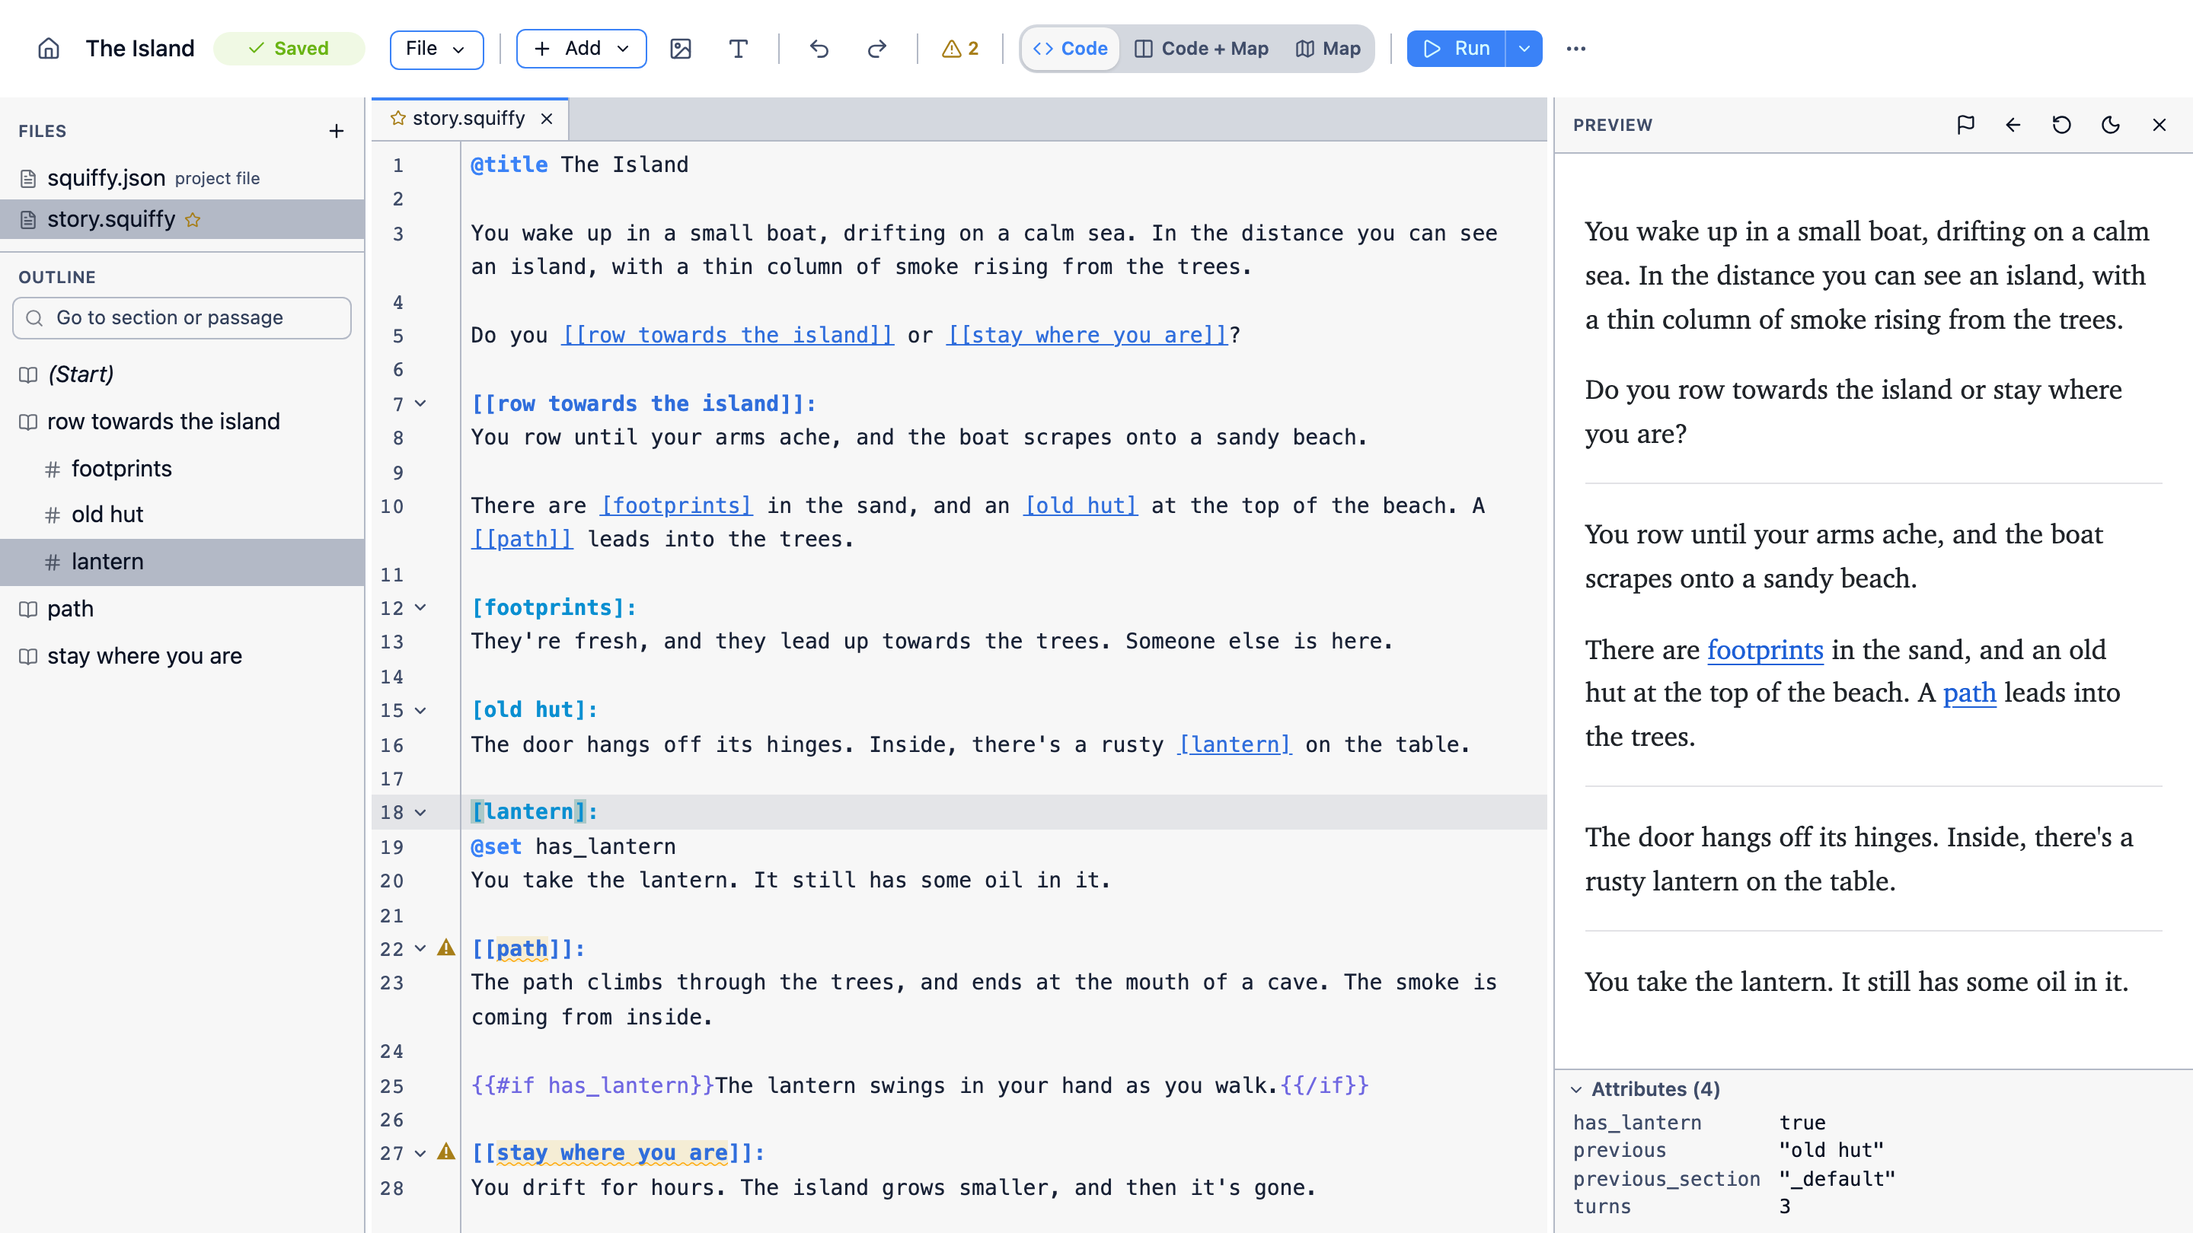
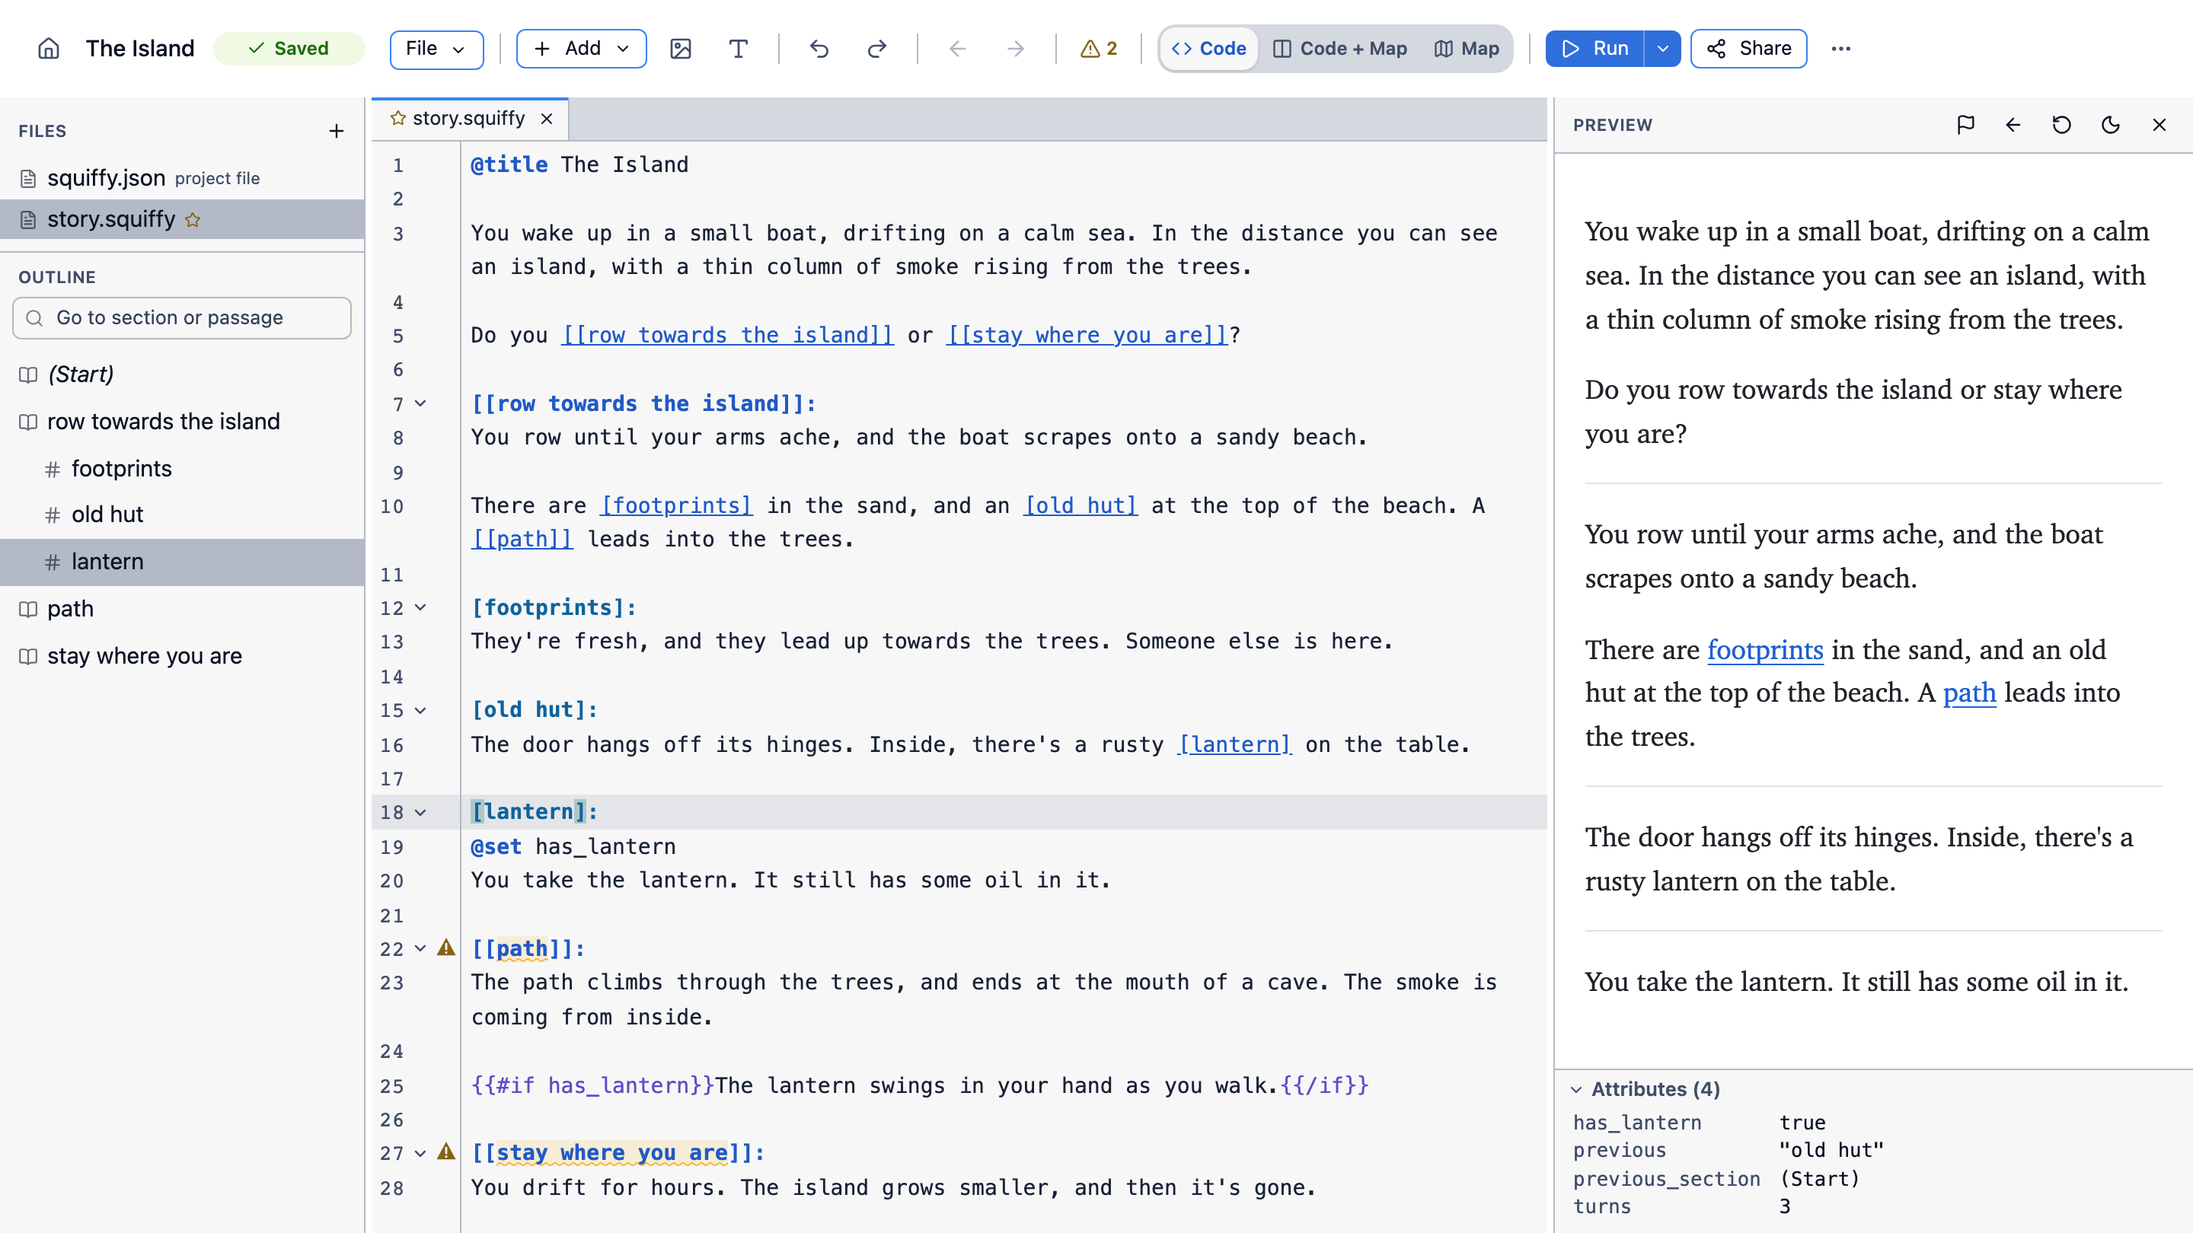
feat(editor): a Share button, and Share or publish opens on A link (#719)
A newcomer looking for "Share" nearly missed File > Publish…, and the dialog
opened on textadventures.co.uk, which they assumed needed an account.

- A Share button beside Run, as well as File > Share or publish…
- The dialog is "Share or publish", lists A link first and opens on it for a
  story not published from this browser; its button says "Make the link"
- The link page says squiffystories.com is Squiffy's own site for stories
- The desktop app's File menu gets Share or Publish…
- Docs, tutorial and screenshots updated

The screenshot harness's Play in a new tab was broken since #653: it waited
for a blob: tab, and the real play page only takes stories from the real
editors. It now serves squiffystories.com from the local player dev server.

diff --git a/app/src/components/PublishModal.svelte b/app/src/components/PublishModal.svelte
@@ -1,5 +1,5 @@
 <script lang="ts">
-    // Publish: every way of getting a story out to players, with what each is for. Three of them
+    // Share or publish (#719): every way of getting a story out to players, with what each is for. Three of them
     // save files for the author to put somewhere. One makes a link with the whole story in it, for
     // a small story (#lib/share-link.ts). The other sends the story to textadventures.co.uk:
     // the editor has no login there, so it uploads the published story and then sends the author to
@@ -42,8 +42,9 @@
     const POLL_INTERVAL = 3000;
 
     const options: { value: PublishTarget; title: string; detail: string }[] = [
+        // A link first, as it's what someone sharing a story for the first time wants (#719)
+        { value: "link", title: "A link", detail: "The whole story in a web address, to send to anyone, with no account and nothing to upload. For a small story: its text, and a few small images." },
         { value: "online", title: "textadventures.co.uk", detail: "Put your story online for free, where players can find it. Publishing again updates it." },
-        { value: "link", title: "A link", detail: "The whole story in a web address, with nothing to upload. For a small story: its text, and a few small images." },
         { value: "zip", title: "Zip for a website", detail: "HTML, JavaScript and your story's files, to upload to itch.io or your own site." },
         { value: "html", title: "One HTML file", detail: "Everything in a single page, for sharing, or for sites that take one file." },
         { value: "js", title: "JavaScript only", detail: "Just story.js, for embedding the story in a page of your own." },
@@ -191,7 +192,7 @@
         onsubmit={e => { e.preventDefault(); if (stage.name === "choose") void publish(); }}
     >
         <h2 id="publish-title" class="text-base font-semibold">
-            {stage.name === "choose" || stage.name === "saving" ? "Publish" : stage.name === "link" ? "Share a link" : "Publish to textadventures.co.uk"}
+            {stage.name === "choose" || stage.name === "saving" ? "Share or publish" : stage.name === "link" ? "Share a link" : "Publish to textadventures.co.uk"}
         </h2>
 
         {#if stage.name === "choose" || stage.name === "saving"}
@@ -247,7 +248,10 @@
         {:else if stage.name === "link"}
             {@const length = linkUrl.length}
             <div class="publish-link flex flex-col gap-3 text-sm">
-                <p>This link is your story. Anyone who opens it can play it, and nothing has been uploaded.</p>
+                <p>
+                    This link is your story. Anyone who opens it can play it on squiffystories.com, Squiffy's own site
+                    for playing stories, and nothing has been uploaded.
+                </p>
                 <div class="flex gap-2">
                     <input
                         id="publish-link"
@@ -364,7 +368,7 @@
             </button>
             {#if stage.name === "choose" || stage.name === "saving"}
                 <button type="submit" class="btn btn-sm preset-filled-primary-500" disabled={busy}>
-                    {stage.name === "saving" ? "Publishing…" : "Publish"}
+                    {#if target === "link"}{stage.name === "saving" ? "Making the link…" : "Make the link"}{:else}{stage.name === "saving" ? "Publishing…" : "Publish"}{/if}
                 </button>
             {/if}
         </div>

diff --git a/app/src/components/Toolbar.svelte b/app/src/components/Toolbar.svelte
@@ -1,8 +1,8 @@
 <script lang="ts">
     // The editor's toolbar, laid out like Quest Viva's: home, the story's name and save state on
     // the left; on the right, in groups, as a menu bar would be: File, adding to the story (Add,
-    // images), Undo and Redo, Back and Forward, problems, what's shown (the script, the map or both), then Run and
-    // the overflow menu.
+    // images), Undo and Redo, Back and Forward, problems, what's shown (the script, the map or both), then Run,
+    // Share (#719) and the overflow menu.
     // Menus open from their button's left edge, as a menu bar's do, unless that's off the screen.
     import { AppBar } from "@skeletonlabs/skeleton-svelte";
     import { goto } from "$app/navigation";
@@ -64,7 +64,7 @@
     import Bug from "@lucide/svelte/icons/bug";
     import DiscordIcon from "#components/DiscordIcon.svelte";
     import CircleX from "@lucide/svelte/icons/circle-x";
-    import CloudUpload from "@lucide/svelte/icons/cloud-upload";
+    import Share2 from "@lucide/svelte/icons/share-2";
     import CircleCheck from "@lucide/svelte/icons/circle-check";
     import type { ProblemCounts } from "#lib/problems.js";
 
@@ -92,7 +92,7 @@
         onfonts?: () => void;
         // Downloads the whole project as a zip, which Open file can read back
         ondownloadproject?: () => void;
-        // Opens the Publish dialog
+        // Opens the Share or publish dialog
         onpublish?: () => void;
         // Undo, redo, find, fold all and unfold all, in the editor
         oncommand?: (command: EditorCommand) => void;
@@ -181,7 +181,7 @@
         ...(reveal ? [{ label: reveal.label, action: () => reveal.show(""), icon: FolderOpen }] : []),
         { label: "Download project (.zip)", action: () => ondownloadproject?.(), icon: FolderDown },
         { label: `Download ${p?.activePath ?? ""}`, action: () => { if (p?.activePath) void downloadFile(p.activePath); }, icon: Download, disabled: !p?.activePath },
-        { label: "Publish…", action: () => onpublish?.(), icon: CloudUpload, divider: true },
+        { label: "Share or publish…", action: () => onpublish?.(), icon: Share2, divider: true },
     ]);
 
     // Add: a section or passage, or a snippet, as the 6.x editor's Add and Snippets menus
@@ -397,6 +397,14 @@
                         </div>
                     {/snippet}
                 </DropdownMenu>
+                <!-- Share on the toolbar, where people look for it, as well as in File (#719) -->
+                <button
+                    type="button"
+                    class="btn btn-xs preset-outlined-primary-500"
+                    onclick={onpublish}
+                    title="Share or publish your story"
+                    aria-label="Share"
+                ><Share2 size={14} /> <span class="hidden md:inline">Share</span></button>
                 <DropdownMenu items={overflowItems} align="left">
                     {#snippet trigger(toggle, open)}
                         <button type="button" class="toolbar-icon-btn" onclick={toggle} title="More" aria-label="More" aria-haspopup="menu" aria-expanded={open}><Ellipsis size={16} /></button>

diff --git a/e2e/screenshots/lib.ts b/e2e/screenshots/lib.ts
@@ -10,6 +10,10 @@ import { fileURLToPath } from "node:url";
 const here = dirname(fileURLToPath(import.meta.url));
 export const repoRoot = resolve(here, "../..");
 export const outDir = join(repoRoot, "site/src/assets/screenshots");
+// The player the shots' editor makes links to (its VITE_PLAYER_URL), and its dev server, which
+// plays them (both in playwright.screenshots.config.ts)
+const PLAYER_URL = "https://squiffystories.com";
+const LOCAL_PLAYER_URL = "http://localhost:5181";
 
 type Rect = { x: number; y: number; width: number; height: number };
 
@@ -38,6 +42,14 @@ export const test = base.extend({
         });
         // The home page's "Made with Squiffy" comes from textadventures.co.uk, and changes
         await context.route("https://textadventures.co.uk/**", route => route.abort());
+        // The player, from its dev server in place of squiffystories.com: Play in a new tab sends
+        // the story to its play page, which only takes one from the real editors, or (in
+        // development) from one on this machine, as the shots' editor is (#644). Its links still
+        // say squiffystories.com.
+        await context.route(`${PLAYER_URL}/**`, async route => {
+            const url = new URL(route.request().url());
+            await route.fulfill({ response: await route.fetch({ url: `${LOCAL_PLAYER_URL}${url.pathname}${url.search}` }) });
+        });
         await use(context);
     },
 });
@@ -126,7 +138,7 @@ export async function playInNewTab(page: Page): Promise<Page> {
         page.getByRole("button", { name: "Run options" }).click().then(() =>
             page.getByRole("menuitem", { name: "Play in a new tab" }).click()),
     ]);
-    await tab.waitForURL(/^blob:/);
+    await tab.waitForURL(`${PLAYER_URL}/v7/play`);
     await tab.setViewportSize(page.viewportSize()!);
     await expect(tab.locator("a.squiffy-link").first()).toBeVisible();
     return tab;

diff --git a/e2e/screenshots/features.capture.ts b/e2e/screenshots/features.capture.ts
@@ -55,16 +55,16 @@ test("writing a section beside the full-screen map", async ({ page }) => {
 test("sharing a story as a link", async ({ page }) => {
     await page.context().grantPermissions(["clipboard-read", "clipboard-write"]);
     await openStory(page, "e2e/screenshots/stories/cave");
-    await menu(page, "File", "Publish…");
+    await menu(page, "File", "Share or publish…");
     await dialog(page).getByRole("radio", { name: /A link/ }).check();
-    await dialog(page).getByRole("button", { name: "Publish", exact: true }).click();
+    await dialog(page).getByRole("button", { name: "Make the link", exact: true }).click();
     await expect(dialog(page).getByText("Share a link")).toBeVisible();
     await capture(page, "publish-link", { clip: await around(dialog(page)) });
 });
 
 test("Story details", async ({ page }) => {
     await openStory(page, "examples/gameshow");
-    await menu(page, "File", "Publish…");
+    await menu(page, "File", "Share or publish…");
     await dialog(page).getByRole("button", { name: "Edit details" }).or(dialog(page).getByRole("link", { name: "Edit details" })).click();
     await expect(dialog(page).getByText("Story details").first()).toBeVisible();
     await capture(page, "story-details", { clip: await around(dialog(page)) });

diff --git a/e2e/screenshots/editor-tools.capture.ts b/e2e/screenshots/editor-tools.capture.ts
@@ -1,6 +1,6 @@
 // The editor's home page, problems, Start at menu and dialogs: "Using the editor", "Testing your
 // story", "Publishing your story", "Images, sound and other files" and "Styling"
-import { test, expect, around, capture, dialog, menu, openStory, run, setView } from "./lib.js";
+import { test, expect, around, capture, dialog, openStory, run, setView } from "./lib.js";
 
 test("the home page, with a story kept in the browser", async ({ page }) => {
     // The list says when each story was last opened, and is in that order
@@ -34,9 +34,9 @@ test("the preview's Start at menu", async ({ page }) => {
     await capture(page, "start-at", { clip: { ...preview, height: list.y + list.height + 24 - preview.y } });
 });
 
-test("the Publish dialog", async ({ page }) => {
+test("the Share or publish dialog", async ({ page }) => {
     await openStory(page, "examples/gameshow");
-    await menu(page, "File", "Publish…");
+    await page.getByRole("button", { name: "Share", exact: true }).click();
     await expect(dialog(page)).toBeVisible();
     await capture(page, "publish", { clip: await around(dialog(page)) });
 });

diff --git a/app/src/lib/publish-target.ts b/app/src/lib/publish-target.ts
@@ -1,11 +1,12 @@
-// Where the Publish dialog last sent each story, so it opens on the same choice next time: most
+// Where the Share or publish dialog last sent each story, so it opens on the same choice next time: most
 // authors publish a story the same way every time. Kept in this browser, by the story's ID in
 // squiffy.json. A story without one opens on whatever was last chosen for any story.
 export const PUBLISH_TARGETS = ["online", "link", "zip", "html", "js"] as const;
 export type PublishTarget = typeof PUBLISH_TARGETS[number];
 
-// The first choice for a story that hasn't been published from here: textadventures.co.uk
-export const DEFAULT_PUBLISH_TARGET: PublishTarget = "online";
+// The first choice for a story that hasn't been published from here: a link, which needs no
+// account and no upload, and is what a newcomer sharing a story wants (#719)
+export const DEFAULT_PUBLISH_TARGET: PublishTarget = "link";
 
 const STORAGE_KEY = "squiffy-publish-targets";
 // The key for the last choice made for any story

diff --git a/app/src/lib/desktop-shell.ts b/app/src/lib/desktop-shell.ts
@@ -52,6 +52,17 @@ export function handleUndo(handler: (redo: boolean) => boolean): () => void {
     };
 }
 
+// What the editor page does with File > Share or Publish: opens its dialog. Nothing, with no story open.
+let shareHandler: (() => void) | null = null;
+
+/** Returns a function that stops it */
+export function handleShare(handler: () => void): () => void {
+    shareHandler = handler;
+    return () => {
+        if (shareHandler === handler) shareHandler = null;
+    };
+}
+
 // Edit > Undo/Redo: the editor page's, or CodeMirror's own history in an editor, else the
 // browser's (text fields)
 function undoRedo(action: "undo" | "redo") {
@@ -80,6 +91,8 @@ async function handleAction(action: MenuAction) {
             return openInEditor(() => pickDesktopFile("import"));
         case "save":
             return project.current?.save();
+        case "share":
+            return shareHandler?.();
         case "close-story":
             await closeProject();
             return goto(`${base}/`);

diff --git a/app/src/routes/edit/+page.svelte b/app/src/routes/edit/+page.svelte
@@ -59,7 +59,7 @@
     import { formatKey, navigationKey } from "#lib/shortcuts.js";
     import { NavHistory, type Place as NavPlace } from "#lib/nav-history.js";
     import { desktopApi } from "#lib/desktop.js";
-    import { handleUndo } from "#lib/desktop-shell.js";
+    import { handleShare, handleUndo } from "#lib/desktop-shell.js";
     import { connectPlayTab, playPageUrl } from "#lib/play-in-tab.js";
     import { convertPastedTwee } from "#lib/twine-import.js";
     import { twinePaste } from "#lib/twine-paste.js";
@@ -1409,9 +1409,11 @@
         };
         window.addEventListener("focusin", track);
         const stop = handleUndo(undoRedo);
+        const stopShare = handleShare(() => { publishOpen = true; });
         return () => {
             window.removeEventListener("focusin", track);
             stop();
+            stopShare();
         };
     });
 

diff --git a/playwright.screenshots.config.ts b/playwright.screenshots.config.ts
@@ -24,9 +24,17 @@ export default defineConfig({
     webServer: [
         {
             command: "npm run dev --workspace app",
-            // The links Publish's "A link" makes go to the real player, not a local one
+            // The links "A link" makes go to the real player, not a local one
             env: { PORT: "5188", VITE_PLAYER_URL: "https://squiffystories.com" },
             url: "http://localhost:5188",
+            reuseExistingServer: true,
+            timeout: 60_000,
+        },
+        {
+            // The player, which e2e/screenshots/lib.ts serves in place of squiffystories.com, for
+            // Play in a new tab
+            command: "npm run dev --workspace player",
+            url: "http://localhost:5181/v7/",
             reuseExistingServer: true,
             timeout: 60_000,
         },

diff --git a/app/src/lib/desktop.ts b/app/src/lib/desktop.ts
@@ -29,7 +29,7 @@ export type NewStoryResult =
     | { ok: true; root: OpenedRoot }
     | { ok: false; reason: "exists" | "invalid-name" };
 
-export type MenuAction = "new-story" | "open-folder" | "open-file" | "import-story" | "save" | "close-story" | "settings" | "undo" | "redo" | "keyboard-shortcuts";
+export type MenuAction = "new-story" | "open-folder" | "open-file" | "import-story" | "save" | "share" | "close-story" | "settings" | "undo" | "redo" | "keyboard-shortcuts";
 
 export interface SquiffyDesktopApi {
     platform: "mac" | "windows" | "linux";

diff --git a/desktop/src/api.ts b/desktop/src/api.ts
@@ -34,7 +34,7 @@ export interface OpenedRoot {
 }
 
 /** Native menu commands the editor carries out */
-export type MenuAction = "new-story" | "open-folder" | "open-file" | "import-story" | "save" | "close-story" | "settings" | "undo" | "redo" | "keyboard-shortcuts";
+export type MenuAction = "new-story" | "open-folder" | "open-file" | "import-story" | "save" | "share" | "close-story" | "settings" | "undo" | "redo" | "keyboard-shortcuts";
 
 export interface SquiffyDesktopApi {
     platform: "mac" | "windows" | "linux";

diff --git a/desktop/src/menu.ts b/desktop/src/menu.ts
@@ -63,6 +63,7 @@ export function buildMenu(options: MenuOptions): void {
                 { label: "Open Recent", submenu: recentItems },
                 { type: "separator" },
                 { label: "Save", accelerator: "CmdOrCtrl+S", click: () => onAction("save") },
+                { label: "Share or Publish…", click: () => onAction("share") },
                 { type: "separator" },
                 { label: "Close Story", click: () => onAction("close-story") },
                 ...(isMac
